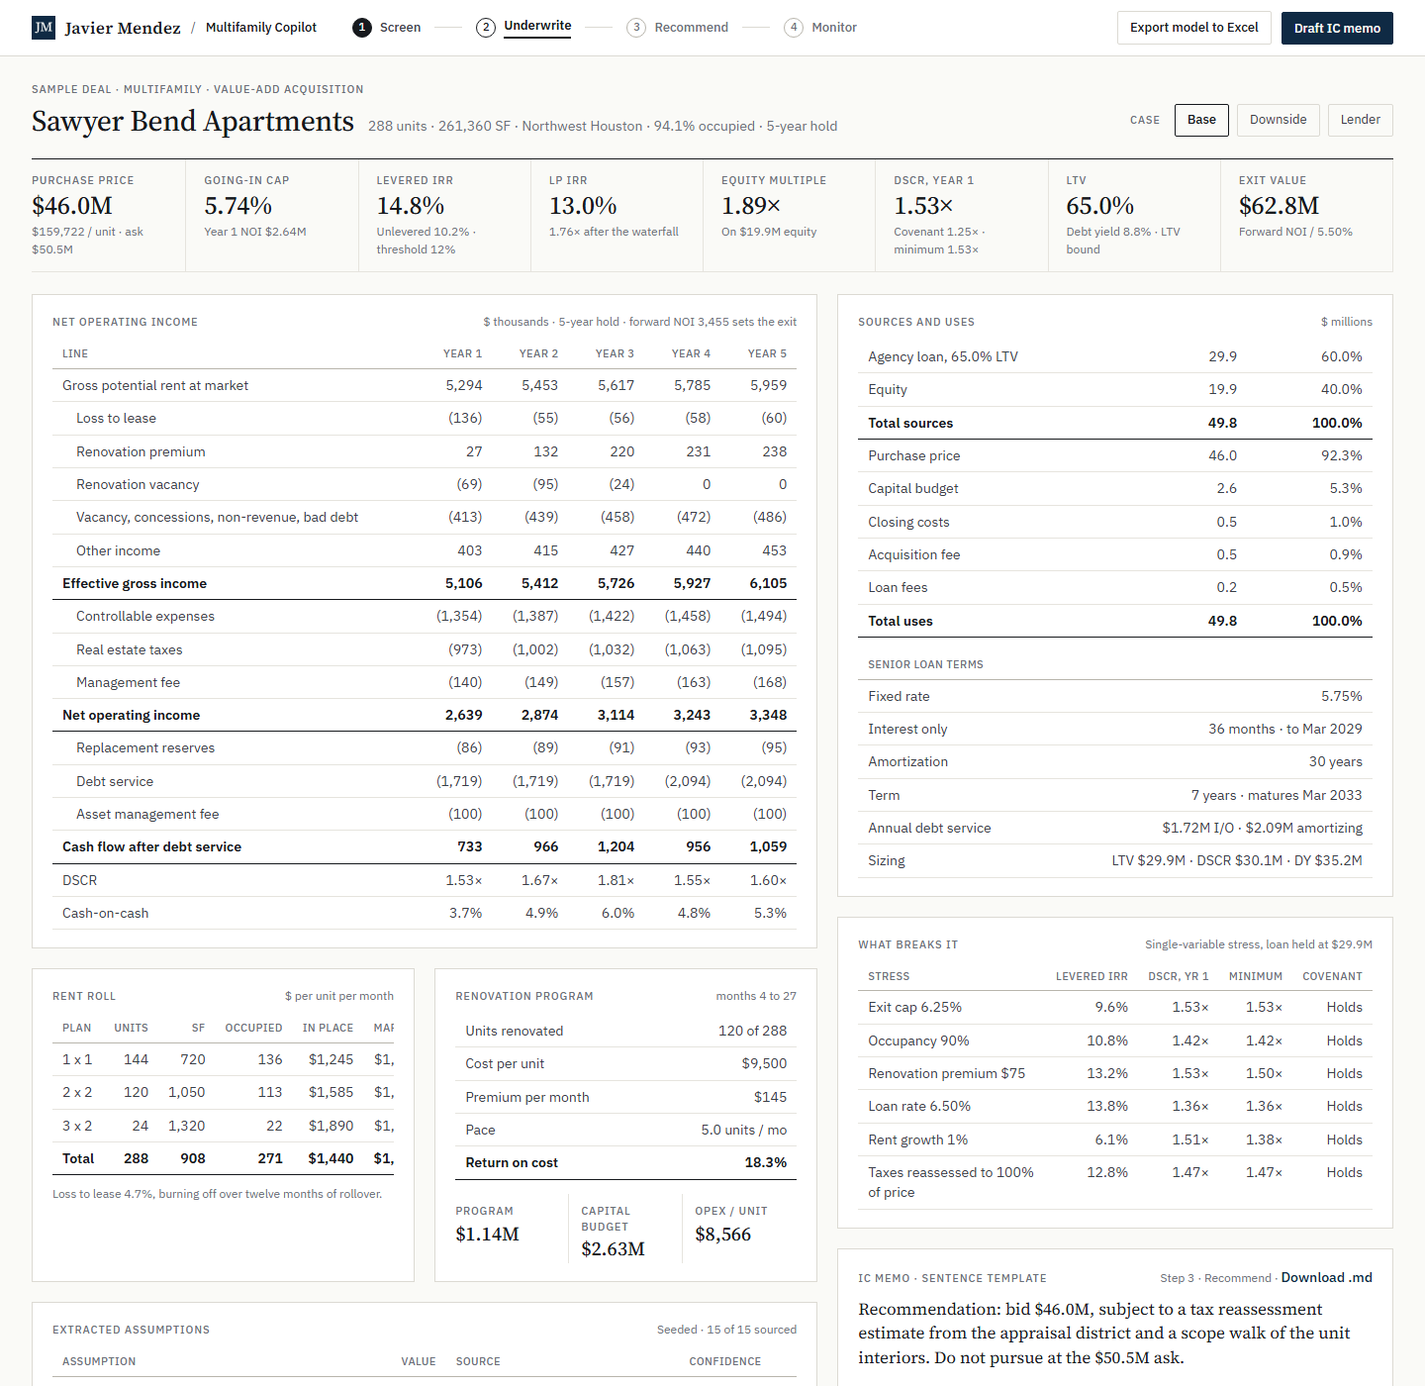
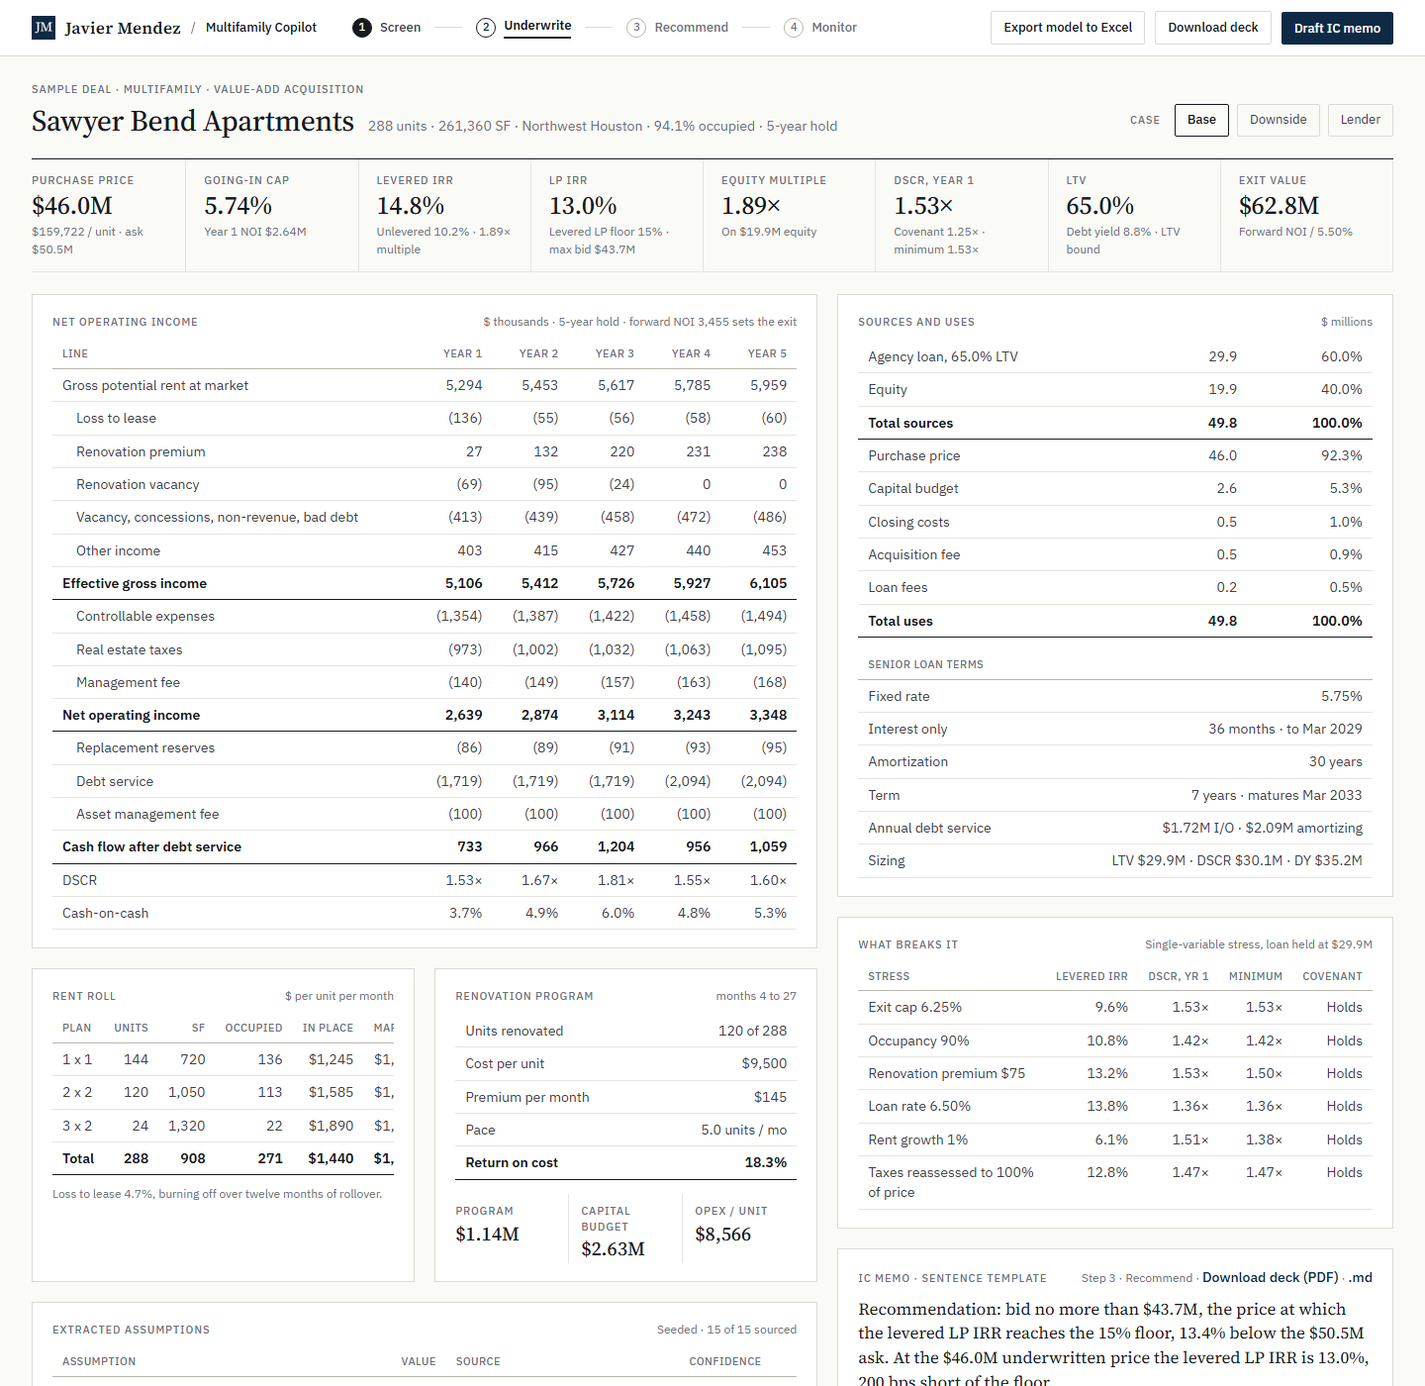
Memo: carry the floor direction in the figure, reject inverted or meta drafts; refresh the GIF

diff --git a/core/copilot/memo.py b/core/copilot/memo.py
@@ -109,7 +109,9 @@ def build_facts(
         "lp_multiple": _mult(r.lp_multiple),
         "gp_irr": _pct(r.gp_irr),
         "lp_floor": f"{floor:.0%}",
-        "lp_cushion_bps": f"{abs(round((lp - floor) * 10_000)):,} bps",
+        "lp_vs_floor": (
+            f"{abs(round((lp - floor) * 10_000)):,} bps " + ("above" if lp >= floor else "short of")
+        ),
         "year_one": "year 1",
         "dscr_year1": _mult(s.dscr_year1),
         "covenant_dscr": _mult(ln.covenant_dscr),
@@ -143,7 +145,10 @@ def build_facts(
         "lp_multiple": "LP equity multiple",
         "gp_irr": "GP IRR including promote",
         "lp_floor": "levered LP IRR floor a bid must clear",
-        "lp_cushion_bps": "distance of the LP IRR from the floor, in basis points, unsigned",
+        "lp_vs_floor": (
+            "the LP IRR's distance from the floor with its direction, such as '200 bps short of'; "
+            "always write it as '{lp_vs_floor} the {lp_floor} floor'"
+        ),
         "year_one": "the words 'year 1'",
         "dscr_year1": "year 1 debt service coverage",
         "covenant_dscr": "DSCR covenant",
@@ -245,8 +250,8 @@ class TemplateWriter:
         has_max = "max_bid" in f
         if facts.verdict == "bid":
             recommendation = (
-                "Recommendation: bid {bid}. The levered LP IRR of {lp_irr} clears the {lp_floor} "
-                "floor by {lp_cushion_bps}"
+                "Recommendation: bid {bid}. The levered LP IRR of {lp_irr} is {lp_vs_floor} the "
+                "{lp_floor} floor"
                 + (
                     ", and the price could rise to {max_bid} before the floor binds"
                     if has_max
@@ -258,8 +263,7 @@ class TemplateWriter:
             recommendation = (
                 "Recommendation: bid no more than {max_bid}, the price at which the levered LP IRR "
                 "reaches the {lp_floor} floor, {discount_max_bid} below the {ask} ask. At the "
-                "{bid} underwritten price the levered LP IRR is {lp_irr}, {lp_cushion_bps} short "
-                "of the floor."
+                "{bid} underwritten price the levered LP IRR is {lp_irr}, {lp_vs_floor} the floor."
             )
         elif has_max:
             recommendation = (
@@ -363,10 +367,14 @@ No em dashes, no exclamation points, no rhetorical questions, no "it's not X, it
 "X, not Y" constructions, and none of these words: delve, leverage, robust, seamless, unlock,
 empower, cutting-edge, game-changing.
 The bid rule is a levered LP IRR floor (the LP return after debt service and the waterfall).
-The verdict is given: "bid" means bid the underwritten price
-{bid}; "bid lower" means recommend a bid no higher than {max_bid}, the price at which the LP IRR
-reaches the floor; "pass" means recommend passing. The recommendation must use the word bid or
-pass to match, and must name {bid} for a bid and {max_bid} for a lower bid. The body must state
+The verdict is given: "bid" means bid the underwritten price {bid}; "bid lower" means recommend
+a bid no higher than {max_bid}, the price at which the LP IRR reaches the floor; "pass" means
+recommend passing. Write to the committee, never about the verdict: do not write the words
+"verdict", "bid lower case" or "floor test". The recommendation must use the word bid or pass to
+match, and must name {bid} for a bid and {max_bid} for a lower bid. State the LP IRR against the
+floor only as "{lp_irr} is {lp_vs_floor} the {lp_floor} floor"; that placeholder carries the
+direction, so never write clears, exceeds, short or below around it yourself. Never cite a page
+or row; {low_confidence} carries the citations when there are any. The body must state
 the levered LP IRR against the {lp_floor} floor, the return at the ask, the most sensitive
 driver, and the covenant floor or breach. The last section lists what the model cannot tell you:
 reassessment, the premium holding, physical condition, the seller's appetite, and the
@@ -542,6 +550,23 @@ def check_draft(draft: Draft, facts: MemoFacts) -> list[str]:
         problems.append(f"body has {len(draft.body)} sentences; three to seven required")
     if not 3 <= len(draft.cannot) <= 5:
         problems.append(f"cannot section has {len(draft.cannot)} items; three to five required")
+    for sentence in texts:
+        if "{lp_irr}" not in sentence:
+            continue
+        lowered_sentence = sentence.lower()
+        says_clears = any(
+            w in lowered_sentence for w in ("clears", "exceeds", "above the", "over the")
+        )
+        says_short = any(
+            w in lowered_sentence for w in ("short of", "below the", "misses", "under the")
+        )
+        if facts.verdict == "bid" and says_short and not says_clears:
+            problems.append("says the LP IRR misses the floor, but it clears it")
+        if facts.verdict != "bid" and says_clears and not says_short:
+            problems.append("says the LP IRR clears the floor, but it misses it")
+    meta = ("bid lower case", "verdict", "floor test", "this is a bid", "this is a pass")
+    if any(m in draft.recommendation.lower() for m in meta):
+        problems.append("recommendation talks about the verdict instead of the deal")
     all_text = " ".join(texts)
     if "{lp_floor}" not in all_text:
         problems.append("memo does not use {lp_floor}")

diff --git a/tests/copilot/test_memo.py b/tests/copilot/test_memo.py
@@ -49,6 +49,7 @@ def test_facts_match_the_documented_memo(base_facts: MemoFacts) -> None:
     assert f["levered_irr"] == "14.8%" and f["equity_multiple"] == "1.89×"
     assert f["lp_irr"] == "13.0%" and f["lp_floor"] == "15%"
     assert f["max_bid"] == "$43.7M" and f["lp_irr_at_max_bid"] == "15.0%"
+    assert f["lp_vs_floor"] == "200 bps short of"
     assert f["discount_max_bid"] == "13.4%"
     assert f["dscr_year1"] == "1.53×" and f["covenant_dscr"] == "1.25×"
     assert f["levered_irr_at_ask"] == "7.9%"
@@ -110,7 +111,7 @@ GOOD_DRAFT = {
     ),
     "body": [
         "At {bid} the deal earns a {levered_irr} levered IRR and a {lp_irr} LP IRR, "
-        "{lp_cushion_bps} short of the {lp_floor} floor.",
+        "{lp_vs_floor} the {lp_floor} floor.",
         "{year_one} DSCR is {dscr_year1} against a {covenant_dscr} covenant.",
         "Paying the {ask} ask cuts the levered IRR to {levered_irr_at_ask}.",
         "Market rent growth is the sensitive driver: at {growth_stress} the IRR is "
@@ -261,3 +262,21 @@ def test_t12_is_not_a_digit_but_other_numbers_are(base_facts: MemoFacts) -> None
     ]
     problems = check_draft(Draft.model_validate(bad), base_facts)
     assert any(p.startswith("digit written by the writer: ...") and "2025" in p for p in problems)
+
+
+def test_inverted_direction_and_meta_talk_are_rejected(base_facts: MemoFacts) -> None:
+    inverted = dict(GOOD_DRAFT)
+    inverted["body"] = [
+        "The levered LP IRR of {lp_irr} clears the {lp_floor} floor by {lp_vs_floor}.",
+        *GOOD_DRAFT["body"][1:],
+    ]
+    problems = check_draft(Draft.model_validate(inverted), base_facts)
+    assert "says the LP IRR clears the floor, but it misses it" in problems
+    meta = dict(GOOD_DRAFT)
+    meta["recommendation"] = (
+        "Recommendation: bid lower. Cap the bid at {max_bid}, where the LP IRR reaches the "
+        "{lp_floor} floor. This is a bid lower case, not a bid at the underwritten price."
+    )
+    problems = check_draft(Draft.model_validate(meta), base_facts)
+    assert "recommendation talks about the verdict instead of the deal" in problems
+    assert any("'X, not Y' construction" in p for p in problems)

diff --git a/core/copy_rules.py b/core/copy_rules.py
@@ -20,6 +20,7 @@ BANNED: list[tuple[str, str]] = [
     (r"\bgame-changing\b", "game-changing"),
     (r"\bit'?s not [^.]{1,60}, it'?s\b", "'it's not X, it's Y' construction"),
     (r"\bnot just [^.]{1,60}, but\b", "'not just X, but Y' construction"),
+    (r", not (a|an|the) \w", "'X, not Y' construction"),
     (r"(?<!<)!(?=[\s\"'\)]|$)", "exclamation point"),
 ]
 

diff --git a/docs/decisions.md b/docs/decisions.md
@@ -36,7 +36,7 @@ Railway builds from the repository Dockerfile (python:3.12-slim, pinned requirem
 `core/underwriting/` is a module-by-module port of the internal land model, with typed pydantic inputs and the calculation order preserved. On the Cypress Ridge inputs it reproduces the internal engine to the dollar on every summary line, every monthly cash flow row, and the XIRR to ten decimals, for all three scenarios. The reference outputs are frozen in `tests/fixtures/cypress_ridge.json`. Inputs the deals document left open were set as model defaults or realistic Houston figures; section development cost was calibrated to $1,020 per front foot ($580 water, sewer and drainage, $440 paving) so the deal lands near the intended return. The port's headline figures replace the hand-built mockup figures: unlevered IRR 17.4% (mockup 18.4%), total revenue $379.1M (412.6), gross costs $291.7M (318.4), gross margin $87.4M or 23.1% of revenue (94.2M, 22.8%), net margin $72.5M (71.5M), 2,380 lots (2,412), 101 months (134), peak cash need $87.1M in month 37 (92.2M, month 34), breakeven in year 6 (year 8). Faster pace runs 19.5% and Lower lot price 11.9%; the sensitivity grid spans 10.1% to 25.9%. The largest line differences: MUD and WCID proceeds $112.3M against 46.1M in the mockup, because the 12% and 4.2% debt ratios apply to about $800M of assessed value; lot sales $235.6M against 318.9M on 2,380 lots at $1,800 per front foot; collector roads $8.8M against 22.6M on 18.6 acres of right of way. Rejected: forcing inputs to hit the mockup numbers. `docs/synthetic-deals.md` is updated to the fixture in build step 3.
 
 ## 2026-09-14 · Two source-model behaviours kept as is
-Two behaviours of the internal engine were ported unchanged so the numbers reconcile, and are flagged here rather than fixed. First, the last home-sale month that closes the marketing, insurance and bookkeeping windows is taken from the last lot size processed, not the latest across all sizes; on Cypress Ridge every size sells out in the same month so nothing changes. Second, empty collector road rows keep their default start months and a six-month build, so an otherwise empty tract still reports a 101-month project and Cypress Ridge runs to month 101 rather than 98. Rejected: changing either in the port, which would break the reference reconciliation before the web layer exists. Both are candidates for a later, separately reconciled fix.
+Two behaviours of the internal engine were ported unchanged so the numbers reconcile, and are flagged here rather than fixed. First, the last home-sale month that closes the marketing, insurance and bookkeeping windows is taken from the last lot size processed, rather than the latest across all sizes; on Cypress Ridge every size sells out in the same month so nothing changes. Second, empty collector road rows keep their default start months and a six-month build, so an otherwise empty tract still reports a 101-month project and Cypress Ridge runs to month 101 rather than 98. Rejected: changing either in the port, which would break the reference reconciliation before the web layer exists. Both are candidates for a later, separately reconciled fix.
 
 ## 2026-09-14 · Copilot refocused on multifamily; Harbor Point Industrial replaced by Sawyer Bend Apartments
 The second product is now the Multifamily Copilot. Its model follows the structure of a private multifamily buyer's model (inventoried in the gitignored `private/multifamily-model-inventory.md`): rent roll by floor plan to market rent with loss-to-lease burn-off, a unit renovation program with premiums, a per-unit operating budget with real estate taxes reassessed at purchase, an agency-style loan sized on the lesser of LTV, DSCR and debt yield with an interest-only period, exit on forward NOI, and an LP/GP waterfall with a preferred return and tiered promote. The synthetic sample deal is Sawyer Bend Apartments, a 288-unit garden community built in 2016 in Northwest Houston, replacing Harbor Point Industrial; its hand-built figures are in `docs/synthetic-deals.md` and, as with Cypress Ridge, the model's outputs replace them in build step 4. Landing navigation reads Land Underwriting and Multifamily Copilot. The copilot mockup in `design/` keeps its panel layout as the reference; its industrial content is superseded. Rejected: keeping a generic income-property copilot, which matched no single hiring conversation as well as multifamily does.
@@ -44,7 +44,7 @@ The second product is now the Multifamily Copilot. Its model follows the structu
 ## 2026-09-14 · Site mark and wordmark
 JM monogram in Source Serif 4 Medium, page ground on a navy square, with the wordmark "Javier Mendez" so initials and name agree. Two initials read at 16 px and give the browser tab a solid block where the default globe was. The lockup replaces the headshot and full-name wordmark used earlier the same day; the photo stays in the repository for a later About-section use. Rejected: MV (initials should be the person's), a single J, a circular seal (ring disappears at 16 px), and a sans version.
 
-## 2026-09-14 · Land Underwriting screen: scenarios live in a browser session, not a database
+## 2026-09-14 · Land Underwriting screen: scenarios live in a browser session, rather than a database
 Edits on the Tract, Costs, Revenue and Lookups tabs recalculate the active scenario and are held in a server-side session keyed by a cookie, expiring after a day. Nothing is written to Postgres in this release: the public demo needs no login and no saving, and a redeploy returning every visitor to the seed deal is the right behaviour for a showcase. Scenarios can be added, renamed, removed, and compared side by side; Main is the seed and the only one that cannot be removed. Rejected: persisting anonymous sessions to the database (adds a table, migrations and cleanup jobs for no reader-visible benefit).
 
 ## 2026-09-14 · Excel export: schedule as values, arithmetic as live formulas
@@ -78,7 +78,7 @@ The Screen step takes three uploads (offering memorandum as PDF; rent roll and T
 Nineteen questions cover the inputs an OM never carries (the bid, hold period, renovation scope and cost, rent growth, vacancy, reserves and all seven loan terms) plus any catalogue figure that came back below High (the renovation premium, the exit cap, the seller's insurance and controllable expenses, the tax reassessment basis). Each question is prefilled with the extracted figure when there is one and the current model input otherwise, and shows the source and the model input side by side so accepting a seller figure is a visible choice. Answers and document facts (floor plans, occupancy, year built, asking price, tax rate, other income, expense lines) land on the sample deal's base inputs and open as a Screened case beside Base, Downside and Lender, per browser session, with its own export. Controllable expenses are asked as one per-unit figure that scales the seven extracted lines proportionally. Rejected: a free-form chat over the documents, and hiding questions whose default equals the model input (the point is to show what was assumed).
 
 ## 2026-09-14 · IC memo: the writer places holders, the code places figures
-`core/copilot/memo.py` builds a facts table from the engine output (about thirty formatted figures keyed by name, such as `{levered_irr}` = 14.8%) and asks the writer for prose that uses those names in braces wherever a number belongs. The writer is a sentence template by default and the Claude API when `ANTHROPIC_API_KEY` is set. A draft is rejected when it contains a digit, an unknown placeholder, a banned phrase, a question mark, fewer than three or more than six body sentences, fewer than three or more than five items in "what the model cannot tell you", or a recommendation that disagrees with the threshold test (bid when the levered IRR clears 12%, pass when it does not). A rejected model draft falls back to the template and the memo says so. A second pass on the finished text confirms that every number in it is a facts value. This makes the requirement that every figure come from the model output dict a property of the construction, not a check on the language model's arithmetic. The eval in `evals/memo/` runs the three seeded cases through the same checks; a fallback counts as a failure for the model writer. Rejected: letting the model write figures and verifying them afterwards (a verified wrong figure is still a wrong figure a reader saw), and free-form prose without a schema (the tool call gives typed sections).
+`core/copilot/memo.py` builds a facts table from the engine output (about thirty formatted figures keyed by name, such as `{levered_irr}` = 14.8%) and asks the writer for prose that uses those names in braces wherever a number belongs. The writer is a sentence template by default and the Claude API when `ANTHROPIC_API_KEY` is set. A draft is rejected when it contains a digit, an unknown placeholder, a banned phrase, a question mark, fewer than three or more than six body sentences, fewer than three or more than five items in "what the model cannot tell you", or a recommendation that disagrees with the threshold test (bid when the levered IRR clears 12%, pass when it does not). A rejected model draft falls back to the template and the memo says so. A second pass on the finished text confirms that every number in it is a facts value. This makes the requirement that every figure come from the model output dict a property of the construction, rather than a check on the language model's arithmetic. The eval in `evals/memo/` runs the three seeded cases through the same checks; a fallback counts as a failure for the model writer. Rejected: letting the model write figures and verifying them afterwards (a verified wrong figure is still a wrong figure a reader saw), and free-form prose without a schema (the tool call gives typed sections).
 
 ## 2026-09-14 · Redirection: the Copilot's calculator will be a faithful port of the buyer's model
 Direction from the owner: the multifamily and build-to-rent tool should work like the MPC tool, as a Python version of the internal Excel buyer's model (`private/multifamily-model-inventory.md` describes its 33 sheets), with recommendations and the memo built on top; the intake takes an OM, a rent roll and an optional T-12 and fills the underwriting as far as the documents allow before the analyst answers the rest. The engine in `core/copilot/` built in step 4 followed the workbook's structure from the inventory; it is not a cell-for-cell port and does not reproduce the workbook's figures. It is kept until the port lands and is then replaced. Plan: step 8 ports the workbook sheet by sheet into typed inputs and modules with the same calculation order (rent roll and floor plans, unit type summary, rent analysis, turnover and rollover, interior renovation, physical upgrades, capital improvement summary, operations and monthly cash flows, RET and payroll and contract services and marketing, acquisition loan, refinance loan, closing costs, reserves, property returns, waterfall, summary), reconciled to the workbook's own values on the internal deal through a private script that is never committed, with zero mismatches as the bar, exactly as `calc.py` was reconciled for the MPC tool. Step 9 re-points Screen, Underwrite and the memo at the ported inputs and outputs, with input tabs that mirror the workbook's sheets the way the MPC tool's tabs do. The workbook itself, its deal figures and its defined names never enter the repo; the seeded deal stays Sawyer Bend, synthetic. Rejected: keeping the structural engine as the calculator (it would never match the model the analysts trust) and porting only the sheets the screen uses (partial ports drift).

diff --git a/README.md b/README.md
@@ -16,7 +16,7 @@ Live site: https://javiermendez.up.railway.app
 
 ## Check it in five minutes
 
-1. Open [Land Underwriting](https://javiermendez.up.railway.app/underwriting). Change the lot price on the Revenue tab and watch the strip, the cash flow and the grid update. Export and open the Summary sheet: the XIRR is a formula over the months, not a pasted value.
+1. Open [Land Underwriting](https://javiermendez.up.railway.app/underwriting). Change the lot price on the Revenue tab and watch the strip, the cash flow and the grid update. Export and open the Summary sheet: the XIRR is a formula over the months, rather than a pasted value.
 2. Open [Screen](https://javiermendez.up.railway.app/copilot/screen) and click "Use the sample documents". Fifteen figures come back with sources. Set insurance to the broker quote, click "Run the underwriting", and a Screened case shows up next to Base, Downside and Lender.
 3. On the underwrite screen, read the stress table and the memo. Click "Draft IC memo" to have it rewritten. Download it as markdown.
 4. Skim [docs/decisions.md](docs/decisions.md). Every trade-off is in there with the date and what I turned down, including a full port of the multifamily workbook that I decided was not worth it.

diff --git a/docs/memo-failure-modes.md b/docs/memo-failure-modes.md
@@ -53,6 +53,14 @@ it's Y" construction, exclamation points. Question marks are also rejected, sinc
 no place for rhetorical questions. Gap: "X, not Y" constructions are asked for in the
 prompt and not checked mechanically; the template avoids them.
 
+**Direction inverted.** Observed on the first accepted live draft: "the levered LP IRR is 13.0%,
+which clears the 15% floor by 200 bps", when it falls 200 bps short. The unsigned cushion
+figure invited the error. The figure now carries its direction ("200 bps short of"), the
+prompt asks for it in one fixed phrasing, and a check rejects a sentence that says clears or
+exceeds about an LP IRR that misses the floor, or short or below about one that clears it.
+The same draft opened with "Recommendation: bid lower", echoing the verdict label; drafts
+that talk about the verdict or the test instead of the deal are now rejected too.
+
 **Placeholders used with the wrong meaning.** The model can write "{ltv} of the equity" and pass
 every check, because the checks are about provenance and structure, not semantics. The facts
 table carries a one-line meaning for each placeholder to reduce this, and the eval's `--show`
